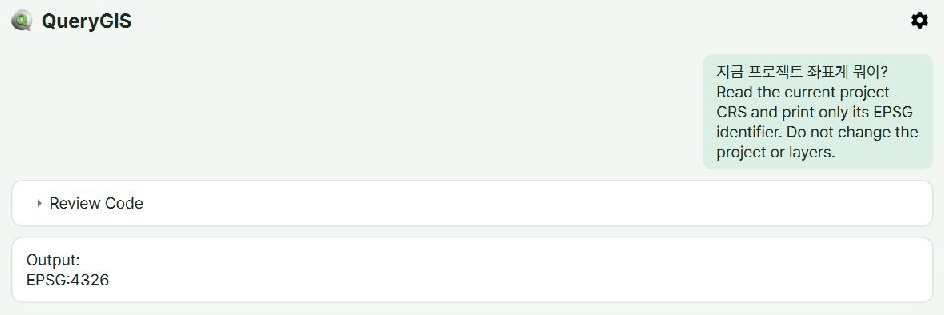
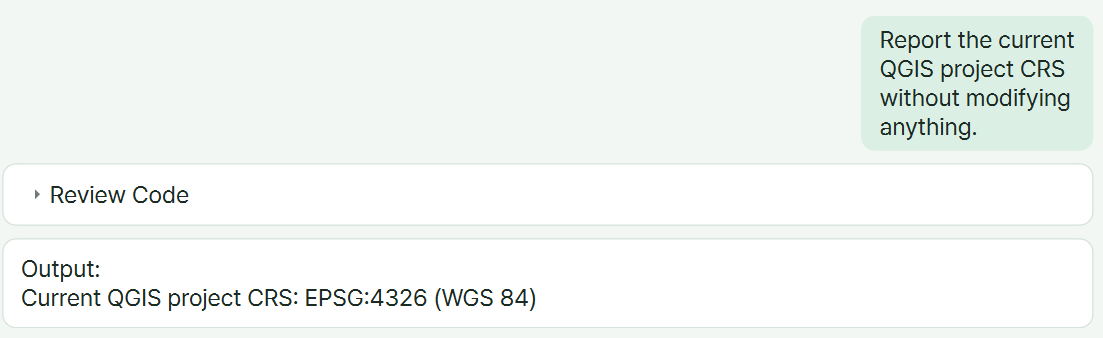
Refresh QueryGIS README screenshots with a real Codex chat

diff --git a/README.md b/README.md
@@ -56,6 +56,15 @@ Set-Location QueryGIS_with_Codex
 
 ![QueryGIS settings showing an active Pro plan and Connected to Codex](docs/images/qgis-connected.png)
 
+<details>
+<summary>See an actual Codex installation and connection check</summary>
+
+This chat shows Codex installing QueryGIS from GitHub and then confirming the connection. In this session, Codex ran the plugin’s read-only connection check from the installed repository.
+
+![Codex chat showing a successful QueryGIS installation and connection check, with project CRS EPSG:4326](docs/images/codex-install-and-connect.png)
+
+</details>
+
 ## 3. Ask about the current project
 
 Try this in Codex once the connection is ready.
@@ -65,7 +74,7 @@ Use QueryGIS to tell me the current QGIS project’s coordinate reference system
 (CRS). Keep the project and its layers unchanged.
 ```
 
-You can also ask in Korean, for example `지금 프로젝트 좌표계 뭐야?` In a live test, Codex reported **EPSG:4326 (WGS 84)**. The screenshot below shows a read-only CRS request and its result in QueryGIS. Your answer depends on the project open in QGIS.
+You can also ask in Korean, for example `지금 프로젝트 좌표계 뭐야?` The QueryGIS panel shows the request and its result. In this example, the project uses **EPSG:4326 (WGS 84)**. Your result depends on the project open in QGIS.
 
 ![Live CRS request in the QueryGIS panel with output EPSG:4326](docs/images/qgis-crs-result.png)
 

diff --git a/README.ko.md b/README.ko.md
@@ -56,6 +56,15 @@ Set-Location QueryGIS_with_Codex
 
 ![QueryGIS 설정에 Pro 요금제와 Connected to Codex가 표시된 화면](docs/images/qgis-connected.png)
 
+<details>
+<summary>실제 Codex 설치 및 연결 확인 대화 보기</summary>
+
+Codex가 GitHub에서 QueryGIS를 설치하고 연결까지 확인한 실제 대화입니다. 이 세션에서는 Codex가 설치된 저장소에서 플러그인의 읽기 전용 연결 확인을 실행했습니다.
+
+![QueryGIS 설치 완료와 연결 상태, 프로젝트 좌표계 EPSG:4326이 표시된 Codex 대화](docs/images/codex-install-and-connect.png)
+
+</details>
+
 ## 3. 현재 프로젝트에 대해 질문하기
 
 연결 후 Codex에 아래처럼 입력해보세요.
@@ -64,7 +73,7 @@ Set-Location QueryGIS_with_Codex
 지금 프로젝트 좌표계 뭐야?
 ```
 
-실제 테스트에서 Codex는 “현재 프로젝트 좌표계는 EPSG:4326(WGS 84)입니다.”라고 답했어요. 아래는 읽기 전용 좌표계 요청과 결과가 표시된 QueryGIS 화면입니다. 결과는 QGIS에서 열려 있는 프로젝트에 따라 달라집니다.
+QueryGIS 패널에 요청과 결과가 표시됩니다. 아래 예시에서 프로젝트 좌표계는 **EPSG:4326 (WGS 84)**입니다. 결과는 QGIS에서 열려 있는 프로젝트에 따라 달라집니다.
 
 ![QueryGIS의 실시간 좌표계 요청과 EPSG:4326 결과](docs/images/qgis-crs-result.png)
 
